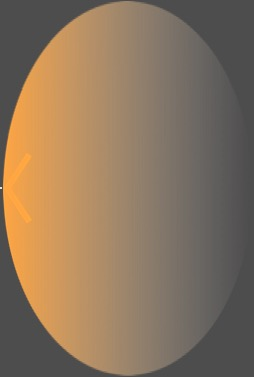
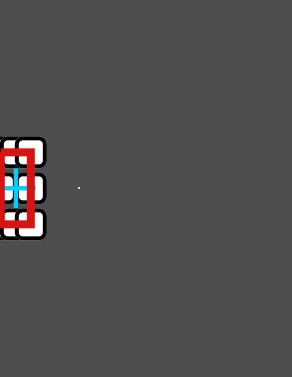
SwipeInAnimation gets cancelled on swipe

diff --git a/insighter/SwipeInView.swift b/insighter/SwipeInView.swift
@@ -158,26 +158,6 @@ class SwipeInView: UIView, CAAnimationDelegate {
 			self.animationCompletions[layer.animation(forKey: "SwipeToNextPage")!] = complete
 		}
 
-		let swipeInArrowOpacityAnimation = CAKeyframeAnimation(keyPath: "opacity")
-		swipeInArrowOpacityAnimation.duration = 1.000
-		swipeInArrowOpacityAnimation.values = [1.000, 0.850, 0.850, 0.000] as [Float]
-		swipeInArrowOpacityAnimation.keyTimes = [0.000, 0.375, 0.750, 1.000] as [NSNumber]
-		swipeInArrowOpacityAnimation.timingFunctions = [easeInTiming, linearTiming, easeOutTiming]
-		swipeInArrowOpacityAnimation.beginTime = beginTime
-		swipeInArrowOpacityAnimation.fillMode = fillMode
-		swipeInArrowOpacityAnimation.isRemovedOnCompletion = removedOnCompletion
-		self.viewsByName["swipe-in-arrow__root"]?.layer.add(swipeInArrowOpacityAnimation, forKey: "Swipe To Next Page_Opacity")
-
-		let swipeInArrowTranslationXAnimation = CAKeyframeAnimation(keyPath: "transform.translation.x")
-		swipeInArrowTranslationXAnimation.duration = 1.000
-		swipeInArrowTranslationXAnimation.values = [0.000, -100.000] as [Float]
-		swipeInArrowTranslationXAnimation.keyTimes = [0.000, 1.000] as [NSNumber]
-		swipeInArrowTranslationXAnimation.timingFunctions = [easeOutTiming]
-		swipeInArrowTranslationXAnimation.beginTime = beginTime
-		swipeInArrowTranslationXAnimation.fillMode = fillMode
-		swipeInArrowTranslationXAnimation.isRemovedOnCompletion = removedOnCompletion
-		self.viewsByName["swipe-in-arrow__root"]?.layer.add(swipeInArrowTranslationXAnimation, forKey: "Swipe To Next Page_TranslationX")
-
 		let swipeInCircleOpacityAnimation = CAKeyframeAnimation(keyPath: "opacity")
 		swipeInCircleOpacityAnimation.duration = 1.000
 		swipeInCircleOpacityAnimation.values = [1.000, 0.650, 0.650, 0.000] as [Float]
@@ -200,22 +180,42 @@ class SwipeInView: UIView, CAAnimationDelegate {
 
 		let swipeInCircleTranslationXAnimation = CAKeyframeAnimation(keyPath: "transform.translation.x")
 		swipeInCircleTranslationXAnimation.duration = 1.000
-		swipeInCircleTranslationXAnimation.values = [0.000, -50.000] as [Float]
+		swipeInCircleTranslationXAnimation.values = [0.000, -40.000] as [Float]
 		swipeInCircleTranslationXAnimation.keyTimes = [0.000, 1.000] as [NSNumber]
 		swipeInCircleTranslationXAnimation.timingFunctions = [easeOutTiming]
 		swipeInCircleTranslationXAnimation.beginTime = beginTime
 		swipeInCircleTranslationXAnimation.fillMode = fillMode
 		swipeInCircleTranslationXAnimation.isRemovedOnCompletion = removedOnCompletion
 		self.viewsByName["swipe-in-circle__root"]?.layer.add(swipeInCircleTranslationXAnimation, forKey: "Swipe To Next Page_TranslationX")
+
+		let swipeInArrowOpacityAnimation = CAKeyframeAnimation(keyPath: "opacity")
+		swipeInArrowOpacityAnimation.duration = 1.000
+		swipeInArrowOpacityAnimation.values = [1.000, 0.850, 0.850, 0.000] as [Float]
+		swipeInArrowOpacityAnimation.keyTimes = [0.000, 0.375, 0.750, 1.000] as [NSNumber]
+		swipeInArrowOpacityAnimation.timingFunctions = [easeInTiming, linearTiming, easeOutTiming]
+		swipeInArrowOpacityAnimation.beginTime = beginTime
+		swipeInArrowOpacityAnimation.fillMode = fillMode
+		swipeInArrowOpacityAnimation.isRemovedOnCompletion = removedOnCompletion
+		self.viewsByName["swipe-in-arrow__root"]?.layer.add(swipeInArrowOpacityAnimation, forKey: "Swipe To Next Page_Opacity")
+
+		let swipeInArrowTranslationXAnimation = CAKeyframeAnimation(keyPath: "transform.translation.x")
+		swipeInArrowTranslationXAnimation.duration = 1.000
+		swipeInArrowTranslationXAnimation.values = [0.000, -80.000] as [Float]
+		swipeInArrowTranslationXAnimation.keyTimes = [0.000, 1.000] as [NSNumber]
+		swipeInArrowTranslationXAnimation.timingFunctions = [easeOutTiming]
+		swipeInArrowTranslationXAnimation.beginTime = beginTime
+		swipeInArrowTranslationXAnimation.fillMode = fillMode
+		swipeInArrowTranslationXAnimation.isRemovedOnCompletion = removedOnCompletion
+		self.viewsByName["swipe-in-arrow__root"]?.layer.add(swipeInArrowTranslationXAnimation, forKey: "Swipe To Next Page_TranslationX")
 	}
 
 	func removeSwipeToNextPageAnimation() {
 		self.layer.removeAnimation(forKey: "SwipeToNextPage")
-		self.viewsByName["swipe-in-arrow__root"]?.layer.removeAnimation(forKey: "Swipe To Next Page_Opacity")
-		self.viewsByName["swipe-in-arrow__root"]?.layer.removeAnimation(forKey: "Swipe To Next Page_TranslationX")
 		self.viewsByName["swipe-in-circle__root"]?.layer.removeAnimation(forKey: "Swipe To Next Page_Opacity")
 		self.viewsByName["swipe-in-circle__yScale"]?.layer.removeAnimation(forKey: "Swipe To Next Page_ScaleY")
 		self.viewsByName["swipe-in-circle__root"]?.layer.removeAnimation(forKey: "Swipe To Next Page_TranslationX")
+		self.viewsByName["swipe-in-arrow__root"]?.layer.removeAnimation(forKey: "Swipe To Next Page_Opacity")
+		self.viewsByName["swipe-in-arrow__root"]?.layer.removeAnimation(forKey: "Swipe To Next Page_TranslationX")
 	}
 
 	// MARK: CAAnimationDelegate

diff --git a/insighter/EvaluationVC.swift b/insighter/EvaluationVC.swift
@@ -9,7 +9,7 @@
 import UIKit
 import Firebase
 
-class EvaluationVC: UIViewController {
+class EvaluationVC: UIViewController, UIScrollViewDelegate {
 
 	weak var delegate: EvaluationDelegate?
 
@@ -43,6 +43,19 @@ class EvaluationVC: UIViewController {
 		self.delegate?.logout()
 	}
 
+	// MARK: - UIScrollViewDelegate
+
+	func scrollViewDidEndDecelerating(_ scrollView: UIScrollView) {
+		let width = view.bounds.width
+		let scrollWidth = scrollView.contentOffset.x
+
+		guard width <= scrollWidth else {
+			return
+		}
+
+		cancelAnimationTimer()
+	}
+
 	// MARK: - Internal Methods
 
 	func swipeInAnimation() {
@@ -50,6 +63,14 @@ class EvaluationVC: UIViewController {
 	}
 
 	// MARK: - Private Methods
+
+	private func cancelAnimationTimer() {
+		guard let timer = animTimer else {
+			return
+		}
+
+		timer.invalidate()
+	}
 
 	private func setAnimationTimer() {
 		let interval: TimeInterval = 3
@@ -64,6 +85,8 @@ class EvaluationVC: UIViewController {
 	}
 
 	private func setupScrollView() {
+		scrollView.delegate = self
+
 		evalUserVC = EvaluationUserVC()
 		evalCompVC = EvaluationCompanyVC()
 
